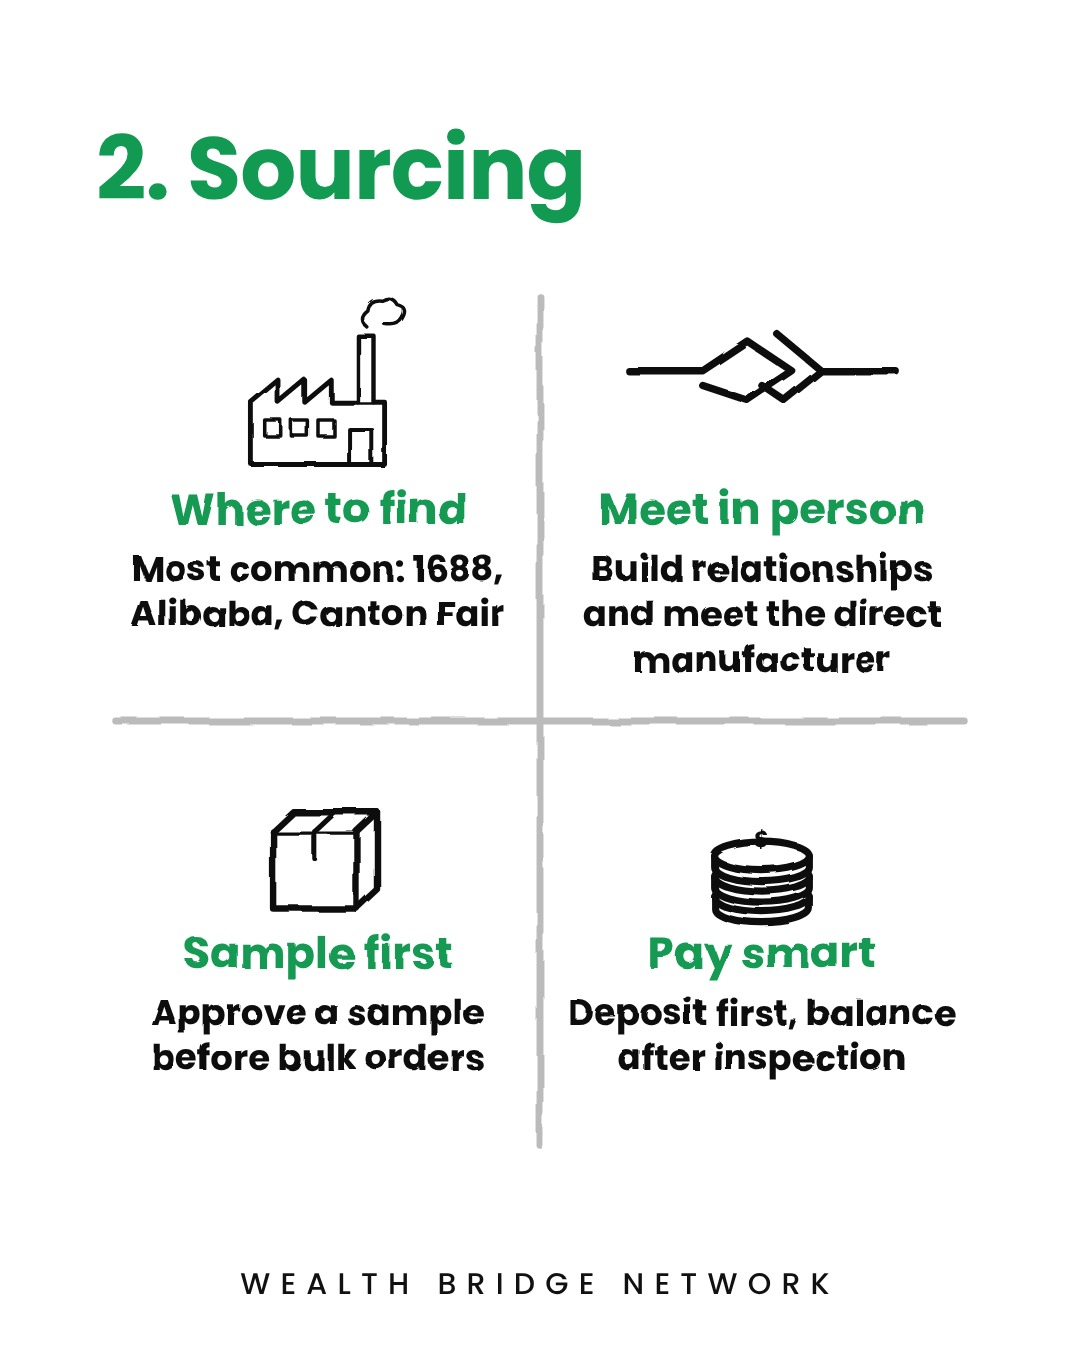
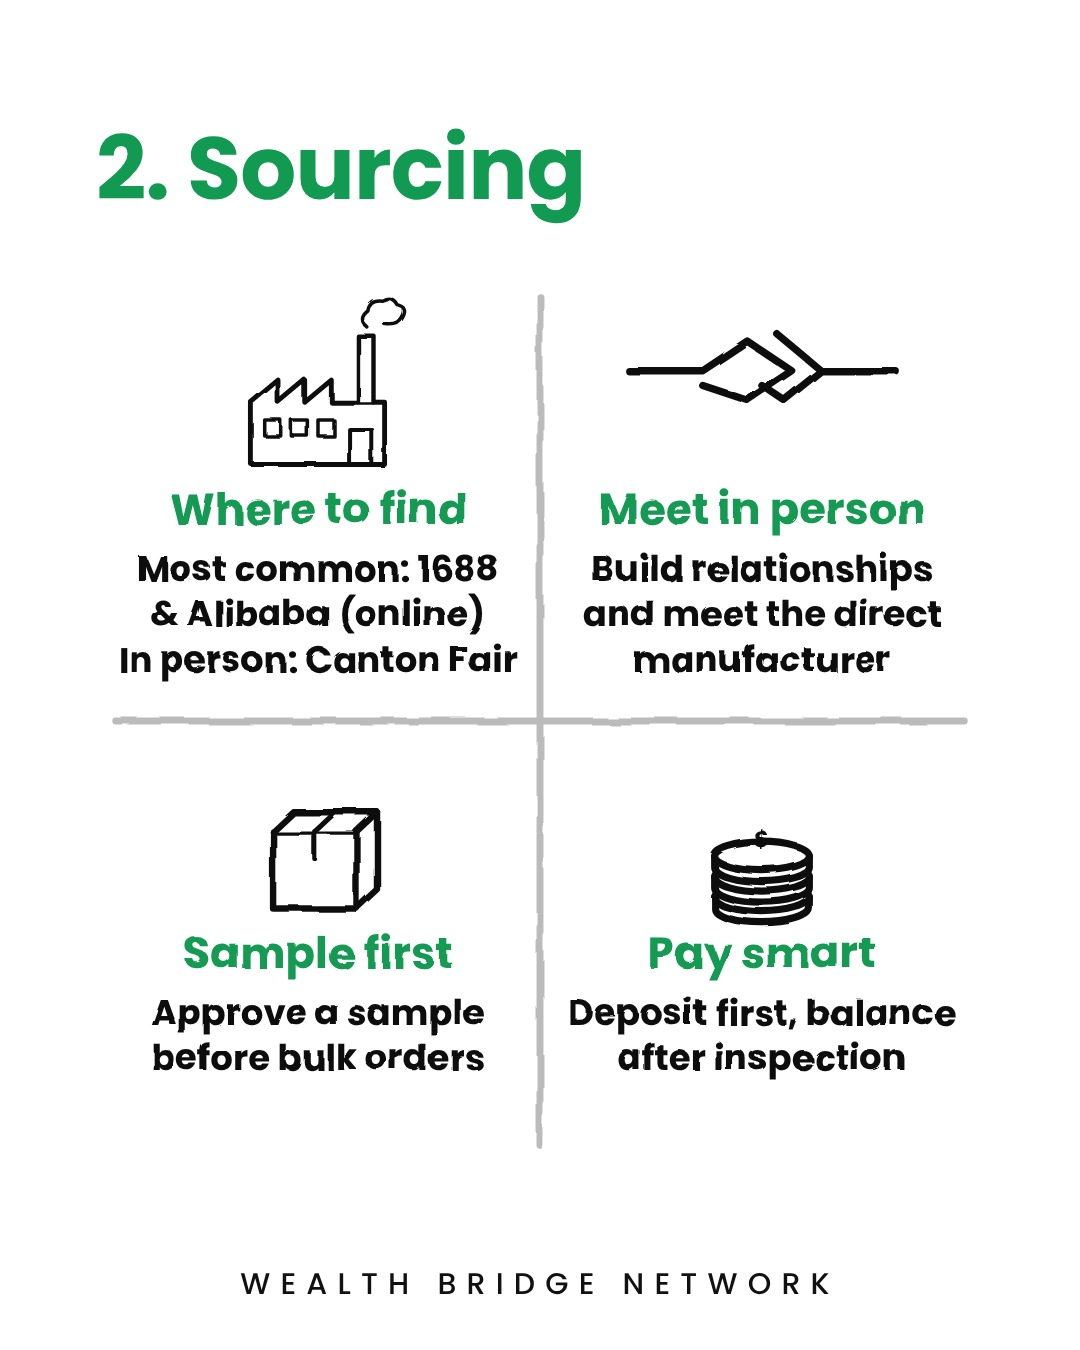
48-five-ways: where to find = most common (online) + in person (Canton Fair)
Claude-Session: https://claude.ai/code/session_01XWHiAw1FC92SEhPtnn4Xv2

Changed region(s): [[0.0917, 0.4044, 0.4889, 0.4978]]

diff --git a/content/five_ways.py b/content/five_ways.py
@@ -49,7 +49,7 @@ dict(id="48-five-ways", pillar="Opportunities", title="4 ways to benefit from Ch
    (lambda x, y: skyline(x, y, 0.38), "Top cities", ["Shanghai, Shenzhen,", "Guangzhou, Chengdu"]),
  ], TEACH),
  topic(2, "Sourcing", [
-   (lambda x, y: factory(x, y, 0.45), "Where to find", ["Most common: 1688,", "Alibaba, Canton Fair"]),
+   (lambda x, y: factory(x, y, 0.45), "Where to find", ["Most common: 1688", "& Alibaba (online)", "In person: Canton Fair"]),
    (lambda x, y: handshake_hands(x, y - 50, 0.75), "Meet in person", ["Build relationships", "and meet the direct", "manufacturer"]),
    (lambda x, y: box(x, y, 0.65), "Sample first", ["Approve a sample", "before bulk orders"]),
    (lambda x, y: coins(x, y, 0.8, 3), "Pay smart", ["Deposit first, balance", "after inspection"]),
